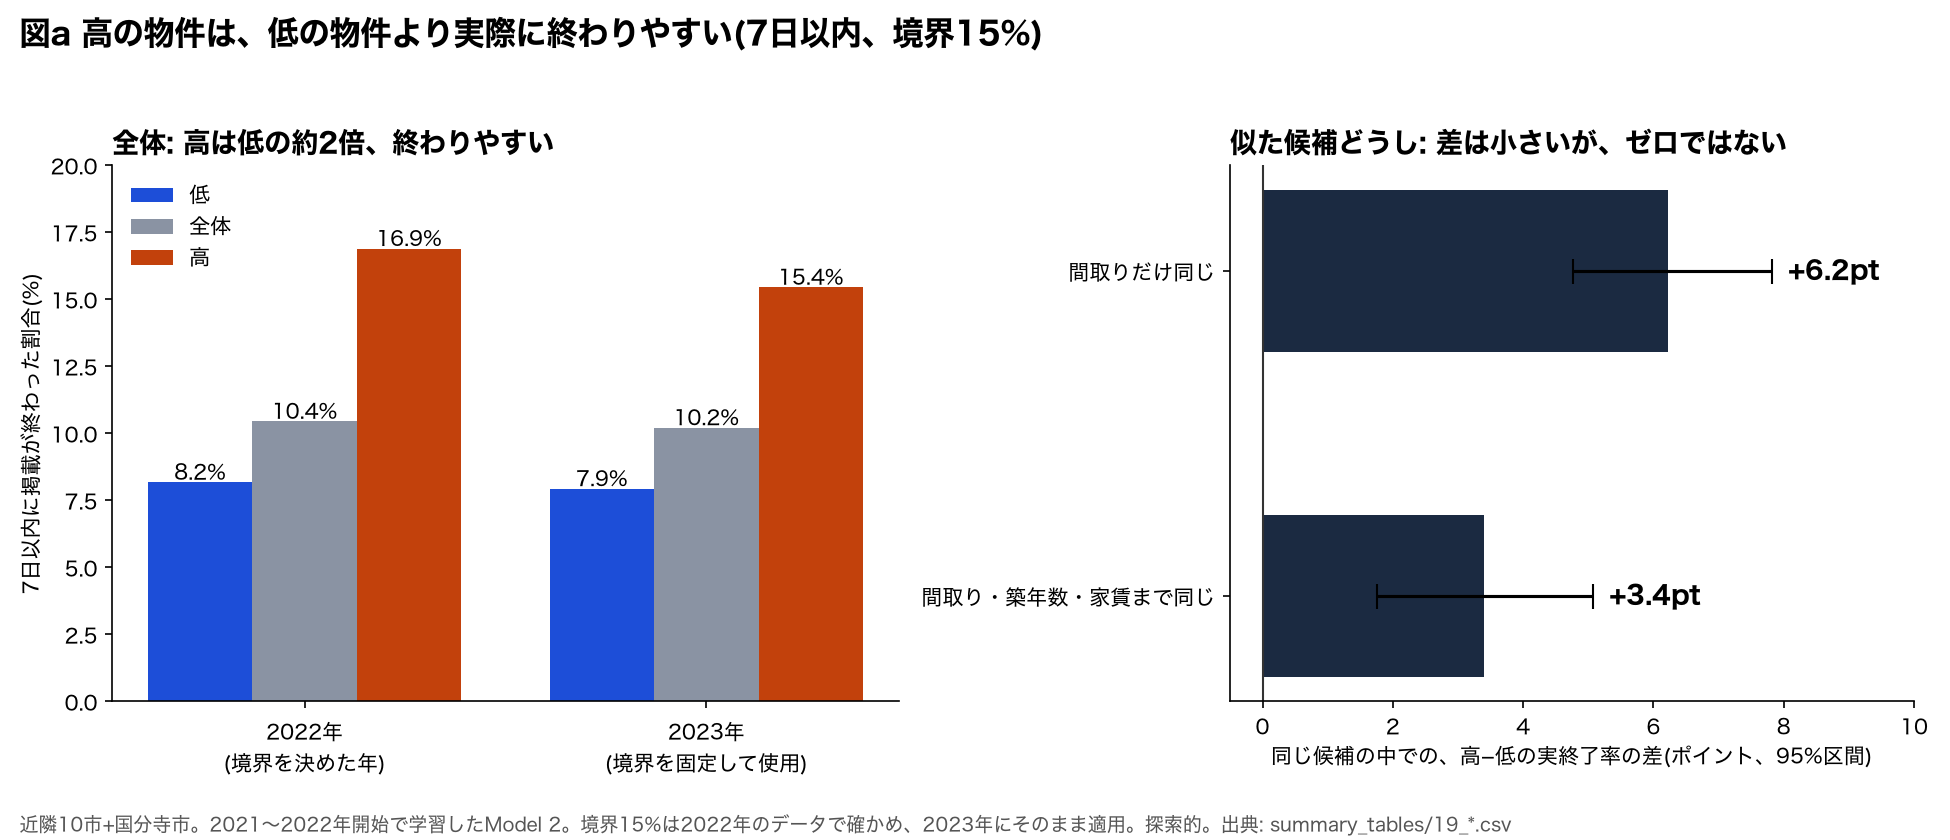
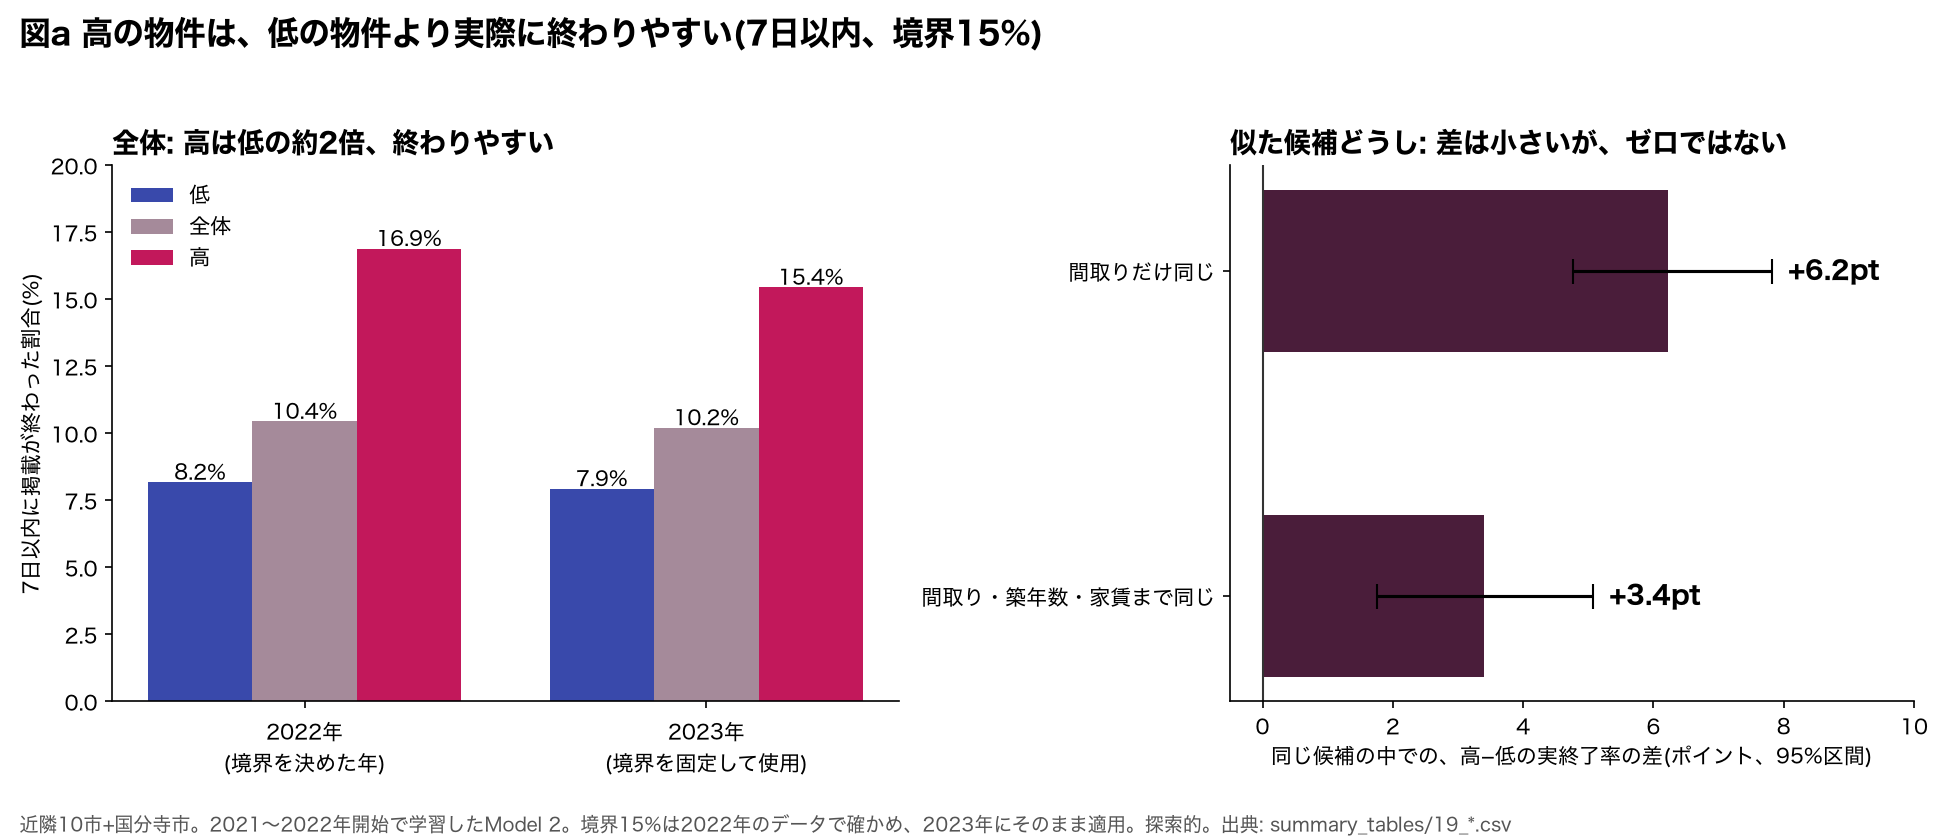
Recolor figures 22 and 23a-g to the rose/plum palette used in the slides

diff --git a/Ohori/analysis/22_horizon_choice_figure.py b/Ohori/analysis/22_horizon_choice_figure.py
@@ -22,7 +22,7 @@ AUC = HERE / "summary_tables" / "17_auc_by_model.csv"
 FIG = HERE / "figures" / "22_horizon_choice.png"
 TABLE = HERE / "summary_tables" / "22_horizon_choice.csv"
 HORIZONS = [7, 14, 30]
-POPS = [("近隣10市+国分寺市", "#1B2A41"), ("国分寺市のみ", "#C2410C")]
+POPS = [("近隣10市+国分寺市", "#4A1D3A"), ("国分寺市のみ", "#C2185B")]
 plt.rcParams["font.family"] = ["Hiragino Sans", "Hiragino Maru Gothic Pro", "sans-serif"]
 
 

diff --git a/Ohori/analysis/23_report_figures.py b/Ohori/analysis/23_report_figures.py
@@ -19,7 +19,7 @@ import pandas as pd
 HERE = Path(__file__).resolve().parents[1]
 T = HERE / "summary_tables"
 FIG = HERE / "figures"
-INK, ACC, BLUE, GRAY = "#1B2A41", "#C2410C", "#1D4ED8", "#8A93A3"
+INK, ACC, BLUE, GRAY = "#4A1D3A", "#C2185B", "#3949AB", "#A58A9A"
 plt.rcParams["font.family"] = ["Hiragino Sans", "sans-serif"]
 plt.rcParams["axes.spines.top"] = False
 plt.rcParams["axes.spines.right"] = False
